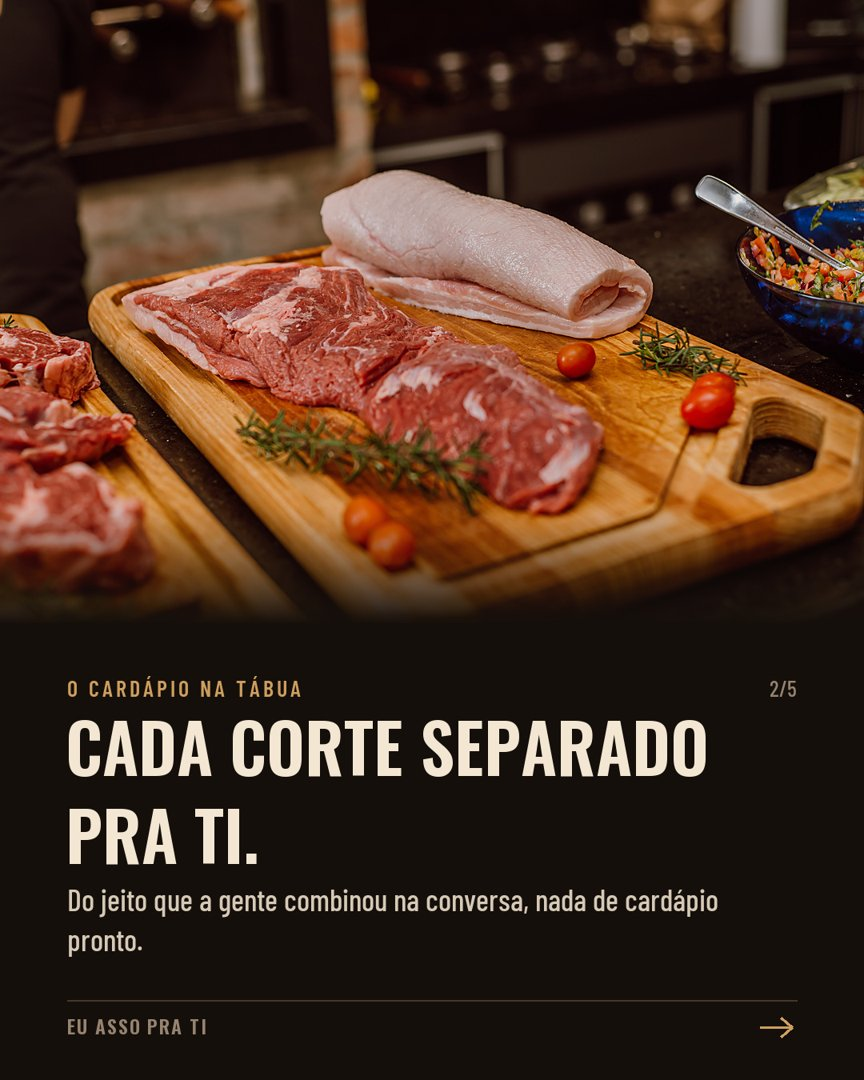
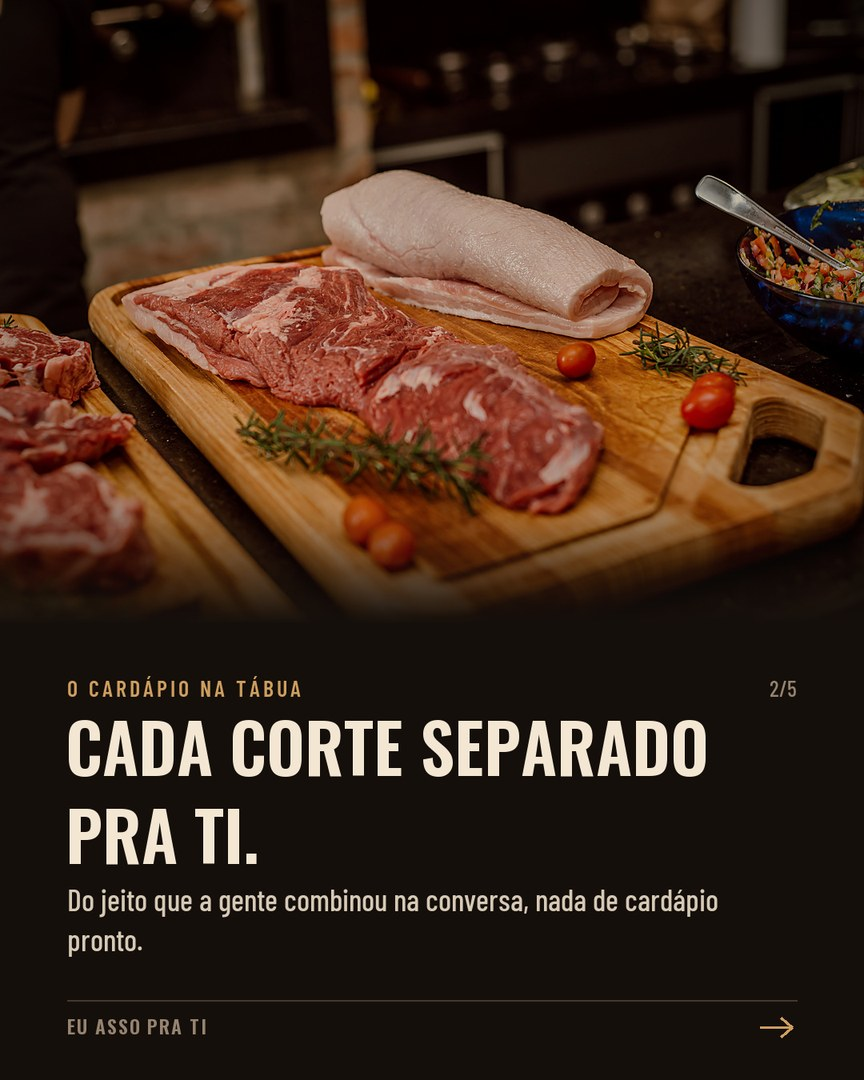
Calendário: post 09 com cor premium, aguardando ok do Diego

diff --git a/calendario/index.html b/calendario/index.html
@@ -11,7 +11,7 @@
 --display:"Oswald","Arial Narrow",sans-serif;--label:"Barlow Condensed","Arial Narrow",sans-serif;--text:"Barlow",system-ui,sans-serif;color-scheme:dark}
 *{box-sizing:border-box}
 body{margin:0;background:var(--bg);color:var(--body);font:400 1.0625rem/1.6 var(--text)}
-.hero{position:relative;min-height:min(78vh,620px);display:grid;align-items:end;background:#000 url(img/p7-01.jpg?v=1792536881) center 45%/cover}
+.hero{position:relative;min-height:min(78vh,620px);display:grid;align-items:end;background:#000 url(img/p7-01.jpg?v=1792674662) center 45%/cover}
 .hero::after{content:"";position:absolute;inset:0;background:linear-gradient(180deg,rgba(21,15,11,.2) 0%,rgba(21,15,11,.55) 45%,var(--bg) 100%)}
 .hero .in{position:relative;z-index:1;max-width:760px;margin:0 auto;width:100%;padding:0 20px 36px}
 h1,h2{font-family:var(--display);font-weight:600;text-transform:uppercase;color:var(--fg);line-height:1.05;margin:0;text-wrap:balance}
@@ -60,7 +60,7 @@ footer{font:500 .9rem var(--label);color:var(--muted);letter-spacing:.06em;borde
 <header class="hero"><div class="in">
   <p class="k">Eu Asso pra Ti · esta semana · 20 a 24/10</p>
   <h1>Os posts<span>desta semana.</span></h1>
-  <p class="lead">Diego, o de terça já foi ao ar. O de quinta tá montado com as tuas fotos de sobremesa e o de sábado já tá pronto. Dá uma olhada e me manda os teus pitacos, num áudio só.</p>
+  <p class="lead">Diego, o do sal já foi ao ar e o das sobremesas sai hoje às 21h. Falta só o teu ok no de sábado: dá uma olhada aqui embaixo e me responde até amanhã.</p>
 </div></header>
 
 <div class="wrap">
@@ -70,14 +70,14 @@ footer{font:500 .9rem var(--label);color:var(--muted);letter-spacing:.06em;borde
   <div class="week">
     <div class="day"><small>Terça 20/10</small><b>Sal antes ou depois?</b><span class="tag done">No ar</span></div>
     <div class="day now"><small>Quinta 22/10 · 21h</small><b>Sobremesas no fogo</b><span class="tag on">Programado</span></div>
-    <div class="day"><small>Sábado 24/10 · 21h</small><b>Antes da tua festa</b><span class="tag on">Pronto</span></div>
+    <div class="day"><small>Sábado 24/10 · 21h</small><b>Antes da tua festa</b><span class="tag">Aguardando teu ok</span></div>
   </div>
 </section>
 
 <section>
   <p class="k">O que preciso de ti</p>
   <ul class="dl">
-        <li><b>Até quinta</b><span>Teu pitaco no post de sábado (antes da tua festa).</span></li>
+        <li><b>Até sexta 23/10</b><span>Teu ok no post de sábado (antes da tua festa).</span></li>
     <li><b>Sábado, no evento</b><span>Gravar o vídeo de reação da focaccia, com o roteiro do Drive.</span></li>
   </ul>
 </section>
@@ -87,13 +87,13 @@ footer{font:500 .9rem var(--label);color:var(--muted);letter-spacing:.06em;borde
   <h2>Post 7: sal antes ou sal depois?</h2>
   <p>Refeito com a tua explicação. Capa com o costelão assado, o fogo da tua churrasqueira, o teu vídeo salgando com sal grosso no time sal antes, e todos os cards na mesma cor quente e premium. Depois: a reação de Maillard, quando salgar antes, quando salgar depois, como tu faz e por que não salgar o corte nobre antes. Fecha com o teu time: depende do corte.</p>
   <div class="car" aria-label="Imagens do post 7">
-    <img src="img/p7-01.jpg?v=1792536881" alt="Capa: Sal antes ou sal depois?" loading="lazy">
-    <img src="img/p7-02.jpg?v=1792536881" alt="A crostinha faz a diferença" loading="lazy">
-    <video src="video/p7-sal.mp4?v=1792536881" autoplay muted loop playsinline style="width:min(78%,330px);flex:none;scroll-snap-align:start;border-radius:8px;aspect-ratio:4/5;object-fit:cover;box-shadow:0 10px 30px rgba(0,0,0,.4)"></video>
-    <img src="img/p7-04.jpg?v=1792536881" alt="Time sal depois" loading="lazy">
-    <img src="img/p7-05.jpg?v=1792536881" alt="Descansa, fatia, salga" loading="lazy">
-    <img src="img/p7-06.jpg?v=1792536881" alt="Sal cedo tira o sabor" loading="lazy">
-    <img src="img/p7-07.jpg?v=1792536881" alt="E eu? Depende do corte" loading="lazy">
+    <img src="img/p7-01.jpg?v=1792674662" alt="Capa: Sal antes ou sal depois?" loading="lazy">
+    <img src="img/p7-02.jpg?v=1792674662" alt="A crostinha faz a diferença" loading="lazy">
+    <video src="video/p7-sal.mp4?v=1792674662" autoplay muted loop playsinline style="width:min(78%,330px);flex:none;scroll-snap-align:start;border-radius:8px;aspect-ratio:4/5;object-fit:cover;box-shadow:0 10px 30px rgba(0,0,0,.4)"></video>
+    <img src="img/p7-04.jpg?v=1792674662" alt="Time sal depois" loading="lazy">
+    <img src="img/p7-05.jpg?v=1792674662" alt="Descansa, fatia, salga" loading="lazy">
+    <img src="img/p7-06.jpg?v=1792674662" alt="Sal cedo tira o sabor" loading="lazy">
+    <img src="img/p7-07.jpg?v=1792674662" alt="E eu? Depende do corte" loading="lazy">
   </div>
   <p class="hint">Arrasta para o lado: 6 imagens e o vídeo do sal grosso.</p>
   <details><summary>Ver a legenda</summary><div class="cap">Sal antes ou sal depois? 🧂🔥
@@ -125,12 +125,12 @@ Agora me conta aqui nos comentários: tu é de qual time? 👇
   <h2>Post 8: sobremesas no fogo</h2>
   <p>Montado com as tuas fotos, na pegada de restaurante: abacaxi e banana caramelizando na grelha na capa, a banana com doce de leite, crumble e creme, o teu vídeo ralando limão na banana empratada, a banana assada com doce de leite e crocante, o Martín Fierro e o fecho com o fogo da churrasqueira.</p>
   <div class="car" aria-label="Imagens do post 8">
-    <img src="img/p8-01.jpg?v=1792536881" alt="Capa: E a sobremesa? No fogo, é claro." loading="lazy">
-    <img src="img/p8-02.jpg?v=1792536881" alt="Sobremesa de restaurante" loading="lazy">
-    <video src="video/p8-sobremesa.mp4?v=1792536881" autoplay muted loop playsinline style="width:min(78%,330px);flex:none;scroll-snap-align:start;border-radius:8px;aspect-ratio:4/5;object-fit:cover;box-shadow:0 10px 30px rgba(0,0,0,.4)"></video>
-    <img src="img/p8-04.jpg?v=1792536881" alt="Doce de leite e crocante" loading="lazy">
-    <img src="img/p8-05.jpg?v=1792536881" alt="Martín Fierro" loading="lazy">
-    <img src="img/p8-06.jpg?v=1792536881" alt="Gostinho de quero mais" loading="lazy">
+    <img src="img/p8-01.jpg?v=1792674662" alt="Capa: E a sobremesa? No fogo, é claro." loading="lazy">
+    <img src="img/p8-02.jpg?v=1792674662" alt="Sobremesa de restaurante" loading="lazy">
+    <video src="video/p8-sobremesa.mp4?v=1792674662" autoplay muted loop playsinline style="width:min(78%,330px);flex:none;scroll-snap-align:start;border-radius:8px;aspect-ratio:4/5;object-fit:cover;box-shadow:0 10px 30px rgba(0,0,0,.4)"></video>
+    <img src="img/p8-04.jpg?v=1792674662" alt="Doce de leite e crocante" loading="lazy">
+    <img src="img/p8-05.jpg?v=1792674662" alt="Martín Fierro" loading="lazy">
+    <img src="img/p8-06.jpg?v=1792674662" alt="Gostinho de quero mais" loading="lazy">
   </div>
   <p class="hint">Arrasta para o lado: 5 imagens e o vídeo da banana empratada.</p>
   <details><summary>Ver a legenda</summary><div class="cap">E a sobremesa? No fogo, é claro 🔥
@@ -152,15 +152,15 @@ Me chama no WhatsApp pelo link da bio ou no (51) 99565-7817 e me conta como tu i
 </section>
 
 <section>
-  <div class="post-head"><p class="k" style="margin:0">Sábado 24/10 · 21h</p><span class="tag on">Pronto</span></div>
+  <div class="post-head"><p class="k" style="margin:0">Sábado 24/10 · 21h</p><span class="tag">Aguardando teu ok</span></div>
   <h2>Post 9: antes da tua festa começar</h2>
-  <p>O bastidor premium: os cortes separados pro cardápio, o cronograma, o serviço na mesa. Mostra o cuidado que o cliente não vê.</p>
+  <p>O bastidor premium: os cortes separados pro cardápio, o cronograma, o serviço na mesa. Mostra o cuidado que o cliente não vê. Já na mesma cor quente e premium dos posts do sal e das sobremesas.</p>
   <div class="car" aria-label="Imagens do post 9">
-    <img src="img/p9-01.jpg?v=1792536881" alt="Capa: Antes da tua festa começar" loading="lazy">
-    <img src="img/p9-02.jpg?v=1792536881" alt="Cada corte separado pra ti" loading="lazy">
-    <img src="img/p9-03.jpg?v=1792536881" alt="O cronograma manda" loading="lazy">
-    <img src="img/p9-04.jpg?v=1792536881" alt="Servido pra galera" loading="lazy">
-    <img src="img/p9-05.jpg?v=1792536881" alt="Me conta a tua" loading="lazy">
+    <img src="img/p9-01.jpg?v=1792674662" alt="Capa: Antes da tua festa começar" loading="lazy">
+    <img src="img/p9-02.jpg?v=1792674662" alt="Cada corte separado pra ti" loading="lazy">
+    <img src="img/p9-03.jpg?v=1792674662" alt="O cronograma manda" loading="lazy">
+    <img src="img/p9-04.jpg?v=1792674662" alt="Servido pra galera" loading="lazy">
+    <img src="img/p9-05.jpg?v=1792674662" alt="Me conta a tua" loading="lazy">
   </div>
   <p class="hint">Arrasta para o lado para ver as 5 imagens.</p>
   <details><summary>Ver a legenda</summary><div class="cap">Antes da tua festa começar, já tem muita coisa acontecendo 🔥

diff --git a/semana/index.html b/semana/index.html
@@ -11,7 +11,7 @@
 --display:"Oswald","Arial Narrow",sans-serif;--label:"Barlow Condensed","Arial Narrow",sans-serif;--text:"Barlow",system-ui,sans-serif;color-scheme:dark}
 *{box-sizing:border-box}
 body{margin:0;background:var(--bg);color:var(--body);font:400 1.0625rem/1.6 var(--text)}
-.hero{position:relative;min-height:min(78vh,620px);display:grid;align-items:end;background:#000 url(img/p5-02.jpg?v=1792536881) center 40%/cover}
+.hero{position:relative;min-height:min(78vh,620px);display:grid;align-items:end;background:#000 url(img/p5-02.jpg?v=1792674662) center 40%/cover}
 .hero::after{content:"";position:absolute;inset:0;background:linear-gradient(180deg,rgba(21,15,11,.2) 0%,rgba(21,15,11,.55) 45%,var(--bg) 100%)}
 .hero .in{position:relative;z-index:1;max-width:760px;margin:0 auto;width:100%;padding:0 20px 36px}
 h1,h2{font-family:var(--display);font-weight:600;text-transform:uppercase;color:var(--fg);line-height:1.05;margin:0;text-wrap:balance}
@@ -81,13 +81,13 @@ footer{font:500 .9rem var(--label);color:var(--muted);letter-spacing:.06em;borde
   <h2>Post 5: gastronomia de fogo</h2>
   <p>Carrossel de 7 imagens: a carne de qualidade, cada uma no seu ponto, os legumes, o fatiado na hora, a sobremesa no fogo e o convite pra conversar.</p>
   <div class="car" aria-label="Imagens do post 5">
-    <img src="img/p5-01.jpg?v=1792536881" alt="Capa: Gastronomia de fogo" loading="lazy">
-    <img src="img/p5-02.jpg?v=1792536881" alt="Carne de qualidade" loading="lazy">
-    <img src="img/p5-03.jpg?v=1792536881" alt="Cada carne no seu ponto" loading="lazy">
-    <img src="img/p5-04.jpg?v=1792536881" alt="Os legumes também vão pro fogo" loading="lazy">
-    <img src="img/p5-05.jpg?v=1792536881" alt="Fatiado na hora" loading="lazy">
-    <img src="img/p5-06.jpg?v=1792536881" alt="E a sobremesa? No fogo, é claro" loading="lazy">
-    <img src="img/p5-07.jpg?v=1792536881" alt="Tem festa vindo aí?" loading="lazy">
+    <img src="img/p5-01.jpg?v=1792674662" alt="Capa: Gastronomia de fogo" loading="lazy">
+    <img src="img/p5-02.jpg?v=1792674662" alt="Carne de qualidade" loading="lazy">
+    <img src="img/p5-03.jpg?v=1792674662" alt="Cada carne no seu ponto" loading="lazy">
+    <img src="img/p5-04.jpg?v=1792674662" alt="Os legumes também vão pro fogo" loading="lazy">
+    <img src="img/p5-05.jpg?v=1792674662" alt="Fatiado na hora" loading="lazy">
+    <img src="img/p5-06.jpg?v=1792674662" alt="E a sobremesa? No fogo, é claro" loading="lazy">
+    <img src="img/p5-07.jpg?v=1792674662" alt="Tem festa vindo aí?" loading="lazy">
   </div>
   <p class="hint">Arrasta para o lado para ver as 7 imagens.</p>
   <details><summary>Ver a legenda</summary><div class="cap">Gastronomia de fogo 🔥 Eu cuido do fogo, tu aproveita a festa.
@@ -114,12 +114,12 @@ Me chama no WhatsApp pelo link da bio ou no (51) 99565-7817 e me conta como tu i
   <h2>Post 6: a tua festa, do teu jeito</h2>
   <p>Aqui não tem cardápio pronto: aniversário em casa, confraternização, casamento e formatura, cada um com o seu jeito. Fecha com "me conta a tua festa".</p>
   <div class="car" aria-label="Imagens do post 6">
-    <img src="img/p6-01.jpg?v=1792536881" alt="Capa: A tua festa, do teu jeito" loading="lazy">
-    <img src="img/p6-02.jpg?v=1792536881" alt="Pra família e os amigos" loading="lazy">
-    <img src="img/p6-03.jpg?v=1792536881" alt="Pra galera da empresa" loading="lazy">
-    <img src="img/p6-04.jpg?v=1792536881" alt="Pro dia que não volta" loading="lazy">
-    <img src="img/p6-05.jpg?v=1792536881" alt="Nada de cardápio pronto" loading="lazy">
-    <img src="img/p6-06.jpg?v=1792536881" alt="Me conta a tua festa" loading="lazy">
+    <img src="img/p6-01.jpg?v=1792674662" alt="Capa: A tua festa, do teu jeito" loading="lazy">
+    <img src="img/p6-02.jpg?v=1792674662" alt="Pra família e os amigos" loading="lazy">
+    <img src="img/p6-03.jpg?v=1792674662" alt="Pra galera da empresa" loading="lazy">
+    <img src="img/p6-04.jpg?v=1792674662" alt="Pro dia que não volta" loading="lazy">
+    <img src="img/p6-05.jpg?v=1792674662" alt="Nada de cardápio pronto" loading="lazy">
+    <img src="img/p6-06.jpg?v=1792674662" alt="Me conta a tua festa" loading="lazy">
   </div>
   <p class="hint">Arrasta para o lado para ver as 6 imagens.</p>
   <details><summary>Ver a legenda</summary><div class="cap">A tua festa, do teu jeito 🔥
@@ -144,7 +144,7 @@ Me chama no WhatsApp pelo link da bio ou no (51) 99565-7817 e me conta a tua fes
 <section>
   <div class="post-head"><p class="k" style="margin:0">Terça 13/10</p><span class="tag done">No ar</span></div>
   <h2>Post 4: o primeiro Reels</h2>
-  <video class="vid" src="video/p4-reels.mp4?v=1792536881" controls playsinline preload="metadata"></video>
+  <video class="vid" src="video/p4-reels.mp4?v=1792674662" controls playsinline preload="metadata"></video>
   <details><summary>Ver a legenda</summary><div class="cap">Quando tu chega, o fogo já tá pronto 🔥
 
 Eu chego bem antes pra preparar tudo: a carne de qualidade separada pra tua festa, o fogo no ponto certinho e tudo saindo da brasa direto pra tábua, servido quentinho pra galera.
